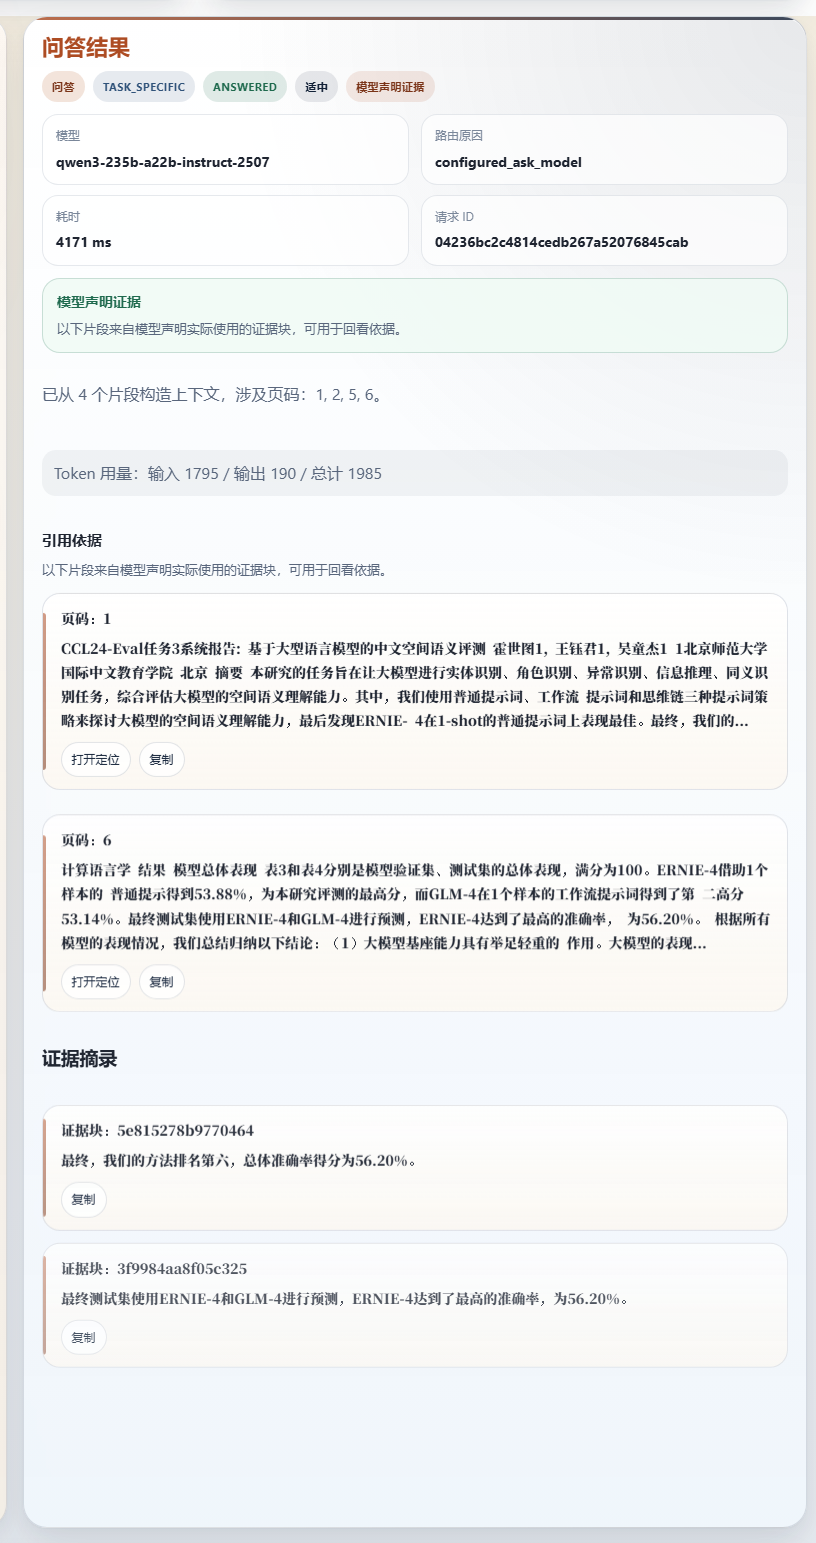
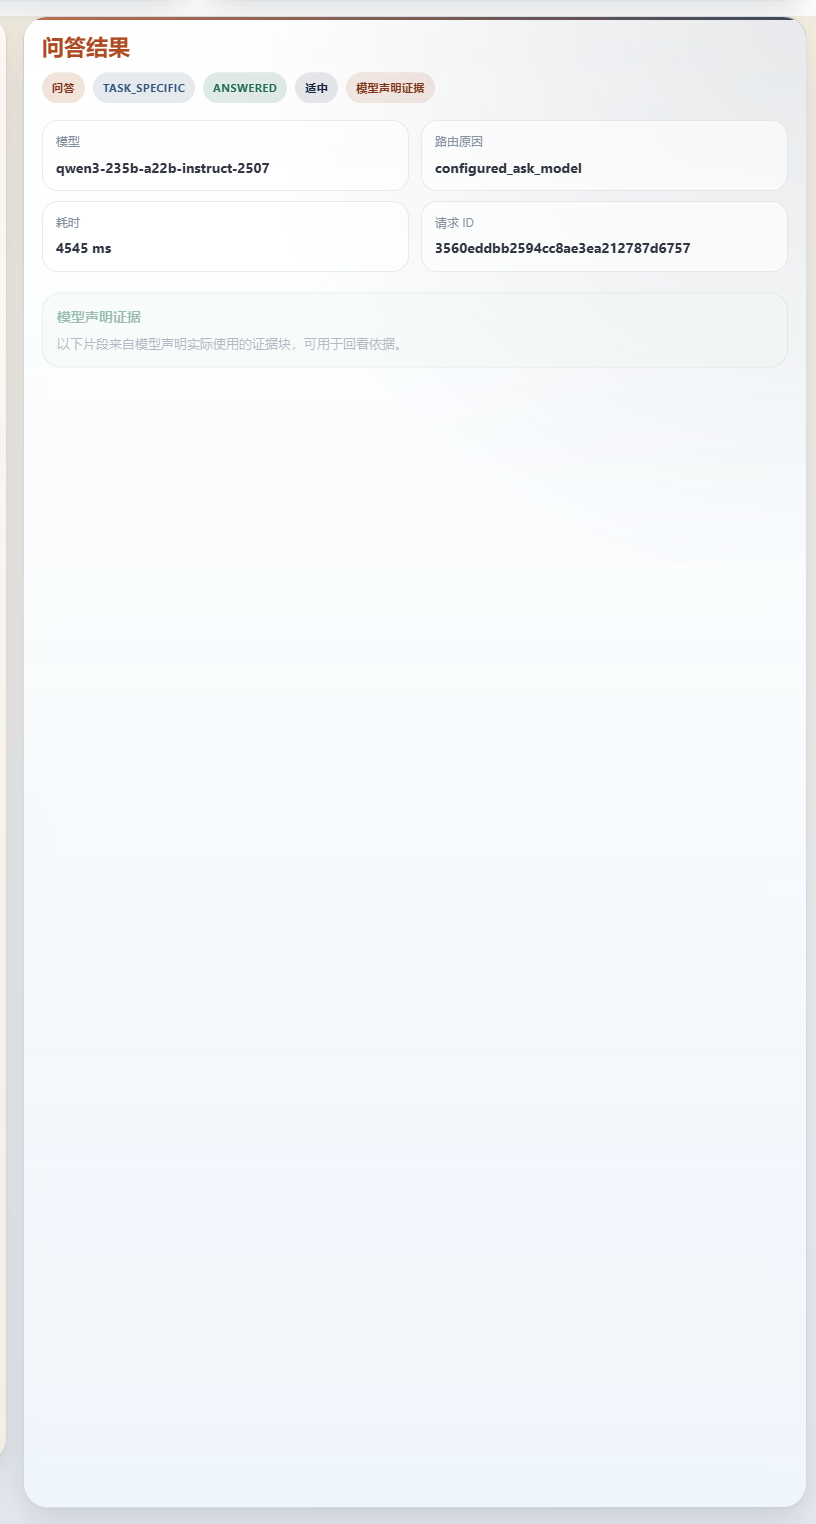
Refresh gold-sample screenshots with cache metadata

diff --git a/scripts/capture_gold_sample_screenshots.js b/scripts/capture_gold_sample_screenshots.js
@@ -716,6 +716,7 @@ async function runAskAndCapture(cdp, { prompt, screenshotPath, previousOutput, r
   const maxAttempts = requirePdfButton ? 3 : 1;
   let latestPanelText = previousOutput;
   let lastEvidenceMode = null;
+  let lastCacheHit = false;
 
   for (let attempt = 1; attempt <= maxAttempts; attempt += 1) {
     await setTaskPrompt(cdp, buildCacheBustingPrompt(prompt, attempt));
@@ -724,6 +725,7 @@ async function runAskAndCapture(cdp, { prompt, screenshotPath, previousOutput, r
     const nextState = await waitForOutputChange(cdp, latestPanelText, { requirePdfButton });
     latestPanelText = nextState.panelText;
     lastEvidenceMode = requirePdfButton ? await readEvidenceMode(cdp) : "none";
+    lastCacheHit = nextState.panelText.includes("本次结果命中本地缓存");
 
     if (requirePdfButton && lastEvidenceMode !== "declared") {
       continue;
@@ -735,6 +737,7 @@ async function runAskAndCapture(cdp, { prompt, screenshotPath, previousOutput, r
       attempt,
       require_pdf_button: requirePdfButton,
       evidence_mode: lastEvidenceMode,
+      cache_hit: lastCacheHit,
       captured_at: new Date().toISOString(),
     });
     return latestPanelText;

diff --git a/agent_handoff/SESSION_LOG.md b/agent_handoff/SESSION_LOG.md
@@ -1132,3 +1132,38 @@ Follow-up to the same day's 档 1 revert. Built the bbox overlay approach end-to
   - future PDF exports now fail fast if page counts or obvious corruption regress
 - Recommended next step:
   - export a refreshed competition handoff bundle so the rebuilt printable outputs replace the previously broken bundle contents
+
+---
+
+## 2026-04-19 / Codex (fresh screenshot metadata + bundle refresh)
+
+- Summary:
+  - refreshed the locked gold-sample screenshots after clearing `data/cache`
+  - extended screenshot sidecars with `cache_hit` so a future reviewer can tell whether a screenshot came from a fresh or cached result
+  - regenerated both the competition handoff bundle and the external review bundle from this fresher screenshot state
+- Files touched:
+  - `scripts/capture_gold_sample_screenshots.js`
+  - `evidence/screenshots/20260419_gold_ask_research_focus.png`
+  - `evidence/screenshots/20260419_gold_ask_research_focus.json`
+  - `evidence/screenshots/20260419_gold_ask_rank_accuracy.png`
+  - `evidence/screenshots/20260419_gold_ask_rank_accuracy.json`
+  - `evidence/screenshots/20260419_gold_refusal.png`
+  - `evidence/screenshots/20260419_gold_refusal.json`
+  - `agent_handoff/CURRENT_STATUS_20260418.md`
+  - `agent_handoff/PROJECT_HANDOFF.md`
+  - `agent_handoff/TASK_BOARD.md`
+  - `agent_handoff/FREEZE_FACT_SHEET_20260419.md`
+  - `WORKLOG.md`
+- Verification:
+  - refreshed sidecars now show:
+    - `20260419_gold_ask_research_focus.json` -> `attempt=1`, `cache_hit=false`, `evidence_mode=declared`
+    - `20260419_gold_ask_rank_accuracy.json` -> `attempt=1`, `cache_hit=false`, `evidence_mode=declared`
+    - `20260419_gold_refusal.json` -> `attempt=1`, `cache_hit=false`, `evidence_mode=none`
+  - refreshed competition handoff bundle:
+    - `evidence/exports/competition_asset_pack_20260419_165205/`
+  - refreshed external review bundle:
+    - `review_bundle_stage_20260419_165239/`
+    - `review_bundle_20260419_165239_final_competition_review.zip`
+- Practical meaning:
+  - the current judge-facing screenshot set is cleaner than the earlier `cache-hit` version
+  - another AI can now review the project without inheriting the stale “attempt 2 / maybe cached” screenshot concern

diff --git a/agent_handoff/CURRENT_STATUS_20260418.md b/agent_handoff/CURRENT_STATUS_20260418.md
@@ -303,14 +303,14 @@
     - `evidence/screenshots/20260419_stats_panel.png`
     - `evidence/screenshots/20260419_api_docs.png`
   - sidecar metadata confirms:
-    - `20260419_gold_ask_research_focus.json` -> `evidence_mode=declared`
-    - `20260419_gold_ask_rank_accuracy.json` -> `evidence_mode=declared` on attempt `2`
-    - `20260419_gold_refusal.json` -> `evidence_mode=none`
+    - `20260419_gold_ask_research_focus.json` -> `evidence_mode=declared`, `attempt=1`, `cache_hit=false`
+    - `20260419_gold_ask_rank_accuracy.json` -> `evidence_mode=declared`, `attempt=1`, `cache_hit=false`
+    - `20260419_gold_refusal.json` -> `evidence_mode=none`, `attempt=1`, `cache_hit=false`
   - `node scripts\export_competition_pdfs.js` refreshed:
     - `deliverables/competition_kit/deck.pdf`
     - `deliverables/competition_kit/poster.pdf`
   - `scripts/export_competition_asset_pack.ps1` now auto-detects the latest screenshot date prefix and exports sidecar metadata; latest pack:
-    - `evidence/exports/competition_asset_pack_20260419_144125/`
+    - `evidence/exports/competition_asset_pack_20260419_165205/`
 - Practical meaning:
   - the previously identified judge-facing mismatch (`candidate` screenshot mixed into the locked answerable path) is now closed in the current repo state
   - the PDF preview snippet/highlight mismatch is now closed for `declared` ask results in the frontend

diff --git a/WORKLOG.md b/WORKLOG.md
@@ -229,7 +229,7 @@ Current status:
 ## Next Recommended Steps
 
 1. Close `G3` with a second-operator rehearsal and `3` consecutive timed runs
-2. Use `evidence/exports/competition_asset_pack_20260419_144125/` as the current handoff bundle for external polishing / collaboration
+2. Use `evidence/exports/competition_asset_pack_20260419_165205/` as the current handoff bundle for external polishing / collaboration
 3. If latency becomes tighter in the deployment environment, rerun the QA compare script before switching from `235b` to `32b`
 4. Keep product scope frozen; do not add new tasks or redesign work ahead of competition material lock
 
@@ -299,7 +299,7 @@ At the start of the next session:
 - Refreshed deliverables/export:
   - `deliverables/competition_kit/deck.pdf`
   - `deliverables/competition_kit/poster.pdf`
-  - `evidence/exports/competition_asset_pack_20260419_144125/`
+  - `evidence/exports/competition_asset_pack_20260419_165205/`
 - Verification:
   - `npm run build`
   - `npm test -- --run` -> `7 passed`

diff --git a/agent_handoff/TASK_BOARD.md b/agent_handoff/TASK_BOARD.md
@@ -94,8 +94,8 @@
 - Authoritative freeze facts now live in:
   - `agent_handoff/FREEZE_FACT_SHEET_20260419.md`
 - The latest external final-review artifact is:
-  - `review_bundle_stage_20260419_132632/`
-  - `review_bundle_20260419_132632_final_competition_review.zip`
+  - `review_bundle_stage_20260419_165239/`
+  - `review_bundle_20260419_165239_final_competition_review.zip`
 - This latest review bundle is preferred over the older broad review pack because it now includes:
   - `PROJECT_CONTEXT.md`
   - refreshed `REVIEW_PROMPT.md`

diff --git a/agent_handoff/PROJECT_HANDOFF.md b/agent_handoff/PROJECT_HANDOFF.md
@@ -327,7 +327,7 @@ Recent external review / strategy bundle files may include:
 - `EXTERNAL_AI_STRATEGY_BUNDLE_INDEX.md`
 - `EXTERNAL_AI_STRATEGY_PROMPT.md`
 - `review_bundle_stage_20260416_231332.zip`
-- `review_bundle_stage_20260419_132632/`
-- `review_bundle_20260419_132632_final_competition_review.zip`
+- `review_bundle_stage_20260419_165239/`
+- `review_bundle_20260419_165239_final_competition_review.zip`
 
 These are useful for third-party model review, but they are not the canonical long-term handoff source.

diff --git a/agent_handoff/FREEZE_FACT_SHEET_20260419.md b/agent_handoff/FREEZE_FACT_SHEET_20260419.md
@@ -71,7 +71,7 @@ Use this file as the quickest authoritative reference when another operator or a
   - `evidence/screenshots/20260419_gold_ask_rank_accuracy.png`
   - `evidence/screenshots/20260419_gold_refusal.png`
 - Current rehearse/export bundle before the next refresh:
-  - `evidence/exports/competition_asset_pack_20260419_144125/`
+  - `evidence/exports/competition_asset_pack_20260419_165205/`
 
 ## What Still Matters
 
